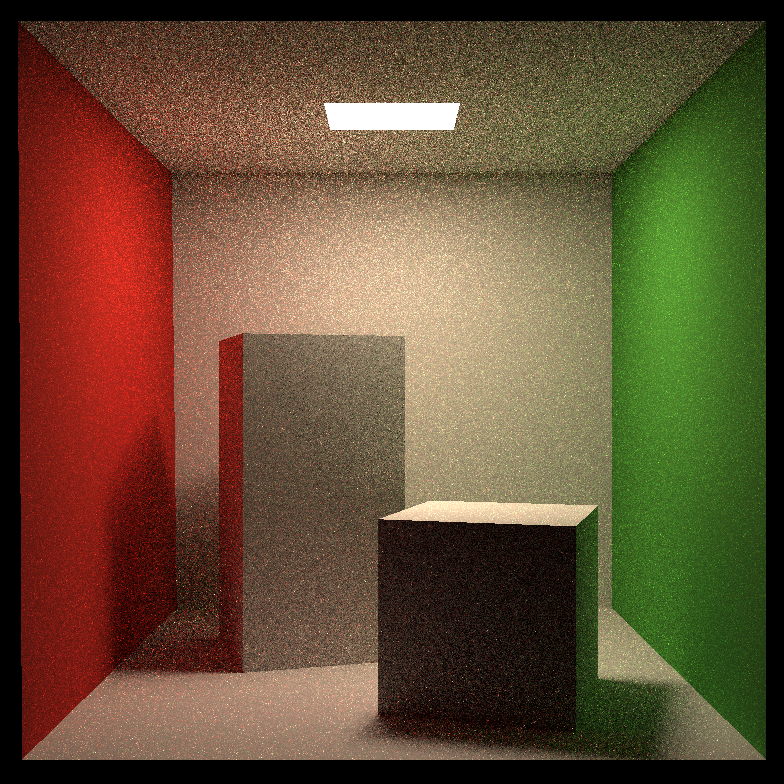
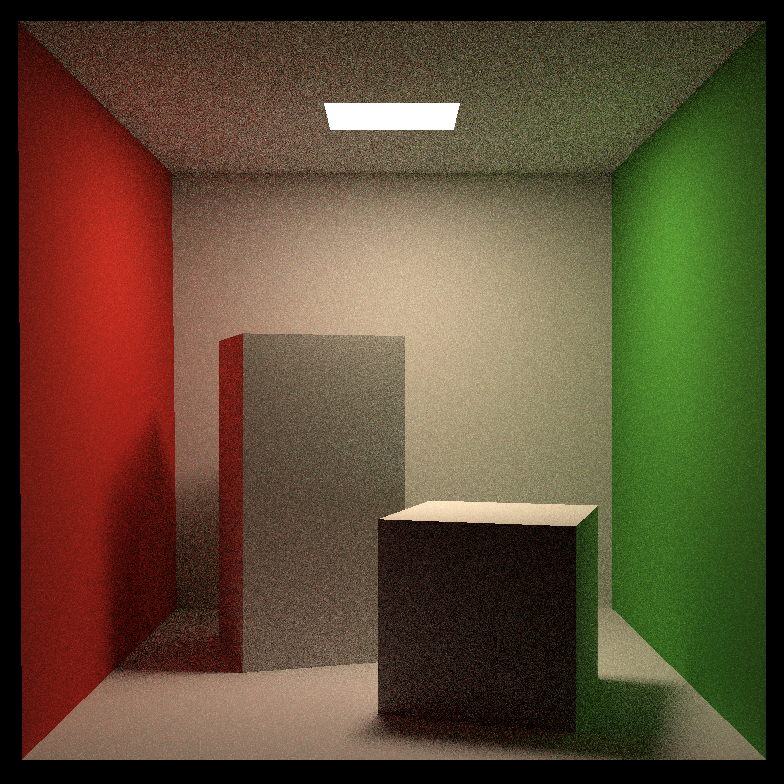
Bug fixes on Assignment 7

diff --git a/GAMES-101/Assignment7/Renderer.cpp b/GAMES-101/Assignment7/Renderer.cpp
@@ -14,6 +14,9 @@ thread_local std::random_device dev;
 thread_local std::mt19937 rng(dev());
 thread_local std::uniform_real_distribution<float> dist(0.f, 1.f); // distribution in range [0, 1]
 
+// The main render function. This where we iterate over all pixels in the image,
+// generate primary rays and cast these rays into the scene. The content of the
+// framebuffer is saved to a file.
 std::vector<Vector3f> Renderer::OnePass(const Scene &scene, int id, bool msaaEnabled)
 {
     std::vector<Vector3f> framebuffer(scene.width * scene.height);
@@ -71,9 +74,7 @@ std::vector<Vector3f> Renderer::OnePass(const Scene &scene, int id, bool msaaEna
     return framebuffer;
 }
 
-// The main render function. This where we iterate over all pixels in the image,
-// generate primary rays and cast these rays into the scene. The content of the
-// framebuffer is saved to a file.
+// Use multi-threading to render the scene. Repeatedly call OnePass() in parallel
 void Renderer::Render(const Scene &scene, bool useMultiThread, bool msaaEnabled)
 {
     int numThread = std::thread::hardware_concurrency();
@@ -214,14 +215,14 @@ void Renderer::updateThreadProgress(int slot, float progress)
                       { return coutAvail; });
     }
     coutAvail = false;
-    int threshold = std::max(1, cliHeight - 2);
+    int threshold = std::min(nSlot - currentMin, cliHeight - 2);
 
     if (currentMin == previousMin)
         resetCliScreen(threshold);
     else
         previousMin = currentMin;
 
-    for (int i = currentMin; i < std::min(currentMin + threshold, nSlot); ++i)
+    for (int i = currentMin; i < currentMin + threshold; ++i)
     {
         UpdateProgress(progresses[i]);
         std::cout << " - Pass [" << i << "] " << (progresses[i] >= 1.f ? "[Done]     " : "[Rendering]") << "\n";

diff --git a/GAMES-101/Assignment7/Scene.cpp b/GAMES-101/Assignment7/Scene.cpp
@@ -96,7 +96,7 @@ Vector3f Scene::castRay(const Ray &ray, int depth) const
         if (dotProduct(wLightOut, hitNormal) > EPSILON) // Must face the light
         {
             if (Intersection isect0 = intersect(lightOut);
-                isect0.happened && isect0.obj == lightPos.obj) // and has no blocking in between, or there is another light source
+                isect0.happened && isect0.obj == lightPos.obj) // and has no blocking in between
             {
                 Vector3f &lightNormal = isect0.normal;
                 Vector3f &lightEmit = isect0.emit;
@@ -106,9 +106,6 @@ Vector3f Scene::castRay(const Ray &ray, int depth) const
                 float ctheta = dotProduct(wLightOut, hitNormal);
                 float cthetap = dotProduct(Vector3f() - wLightOut, lightNormal);
                 hitColor += lightEmit * fr * (ctheta * cthetap / frac);
-                // hitColor += Vector3f{1.0} / frac;
-                // hitColor += Vector3f{0.5};
-                // fprintf(stderr, "frac0=%f, frac=%f\n", frac0, frac);
             }
         }
 
@@ -122,7 +119,7 @@ Vector3f Scene::castRay(const Ray &ray, int depth) const
                 isect0.happened && !isect0.m->hasEmission())
             {
                 float frac = pdfMaterial * RussianRoulette;
-                Vector3f shade = castRay(outRay, depth + 1).regularized();
+                Vector3f shade = castRay(outRay, depth + 1);
                 Vector3f f_r = hitMaterial->eval(wIn, wOut, hitNormal);
                 float ctheta = dotProduct(wOut, hitNormal);
                 hitColor +=  shade * f_r * ctheta / frac;
@@ -135,5 +132,5 @@ Vector3f Scene::castRay(const Ray &ray, int depth) const
         }
     }
 
-    return hitColor;
+    return hitColor.regularized();
 }

diff --git a/GAMES-101/Assignment7/main.cpp b/GAMES-101/Assignment7/main.cpp
@@ -14,9 +14,9 @@ int main(int argc, char **argv)
 {
 
     // Change the definition here to change resolution
-    Scene scene(784, 784); // DEFAULT
+    // Scene scene(784, 784); // DEFAULT
     // Scene scene(1024, 1024); // RELEASE
-    // Scene scene(50, 50); // DEBUG
+    Scene scene(512, 512); // DEBUG
 
     Material *red = new Material(DIFFUSE, Vector3f(0.0f));
     red->Kd = Vector3f(0.63f, 0.065f, 0.05f);
@@ -47,13 +47,14 @@ int main(int argc, char **argv)
 
     Renderer r;
     // r.setSPP(1);
+    // r.setSPP(4);
     r.setSPP(16);
     // r.setSPP(256);
     // r.setSPP(1024);
     r.setEyePos(Vector3f(278, 273, -800));
 
     auto start = std::chrono::system_clock::now();
-    r.Render(scene, true, true);
+    r.Render(scene, true, false);
     auto stop = std::chrono::system_clock::now();
 
     std::cout << "\nRendering complete. \n";

diff --git a/GAMES-101/Assignment7/Vector.hpp b/GAMES-101/Assignment7/Vector.hpp
@@ -30,6 +30,7 @@ public:
         float n = std::sqrt(x * x + y * y + z * z);
         return Vector3f(x / n, y / n, z / n);
     }
+    // Regularize the vector such that all components reside in [0, 1]
     inline Vector3f regularized()
     {
         return Vector3f(clamp(0.f, 1., x), clamp(0.f, 1., y), clamp(0.f, 1., z));

diff --git a/GAMES-101/Assignment7/readme.md b/GAMES-101/Assignment7/readme.md
@@ -46,10 +46,11 @@ From now on we assume optimized random FP generation is used.
 
 
 
-| Options        | Image                                                        |
-| -------------- | ------------------------------------------------------------ |
-| 784x784        | <img src="images/784x784_16.png" alt="img1" style="zoom:50%;" /> |
-| 784x784 MSAA4x | <img src="images/784x784_16_msaa4x.png" alt="img1" style="zoom:50%;" /> |
+| Options                   | Image                                                        |
+| ------------------------- | ------------------------------------------------------------ |
+| 784x784                   | <img src="images/784x784_16.png" alt="img1" style="zoom:50%;" /> |
+| 784x784 MSAA4x            | <img src="images/784x784_16_msaa4x.png" alt="img1" style="zoom:50%;" /> |
+| 784x784 SPP=1024, No MSAA | <img src="images/784x784_1024.png" alt="img1" style="zoom:50%;" /> |
 
 
 
@@ -76,8 +77,18 @@ From now on we assume optimized random FP generation is used.
 #### FP Precision
 
 - When intersecting with bounding boxes, consider the extreme cases (bounding box deteriorates into a single plane).
+  - *Phenomenon: Planes may disappear*
 - When intersecting with triangles, reverse the direction of surface normal if necessary.
-- When shooting rays from the surface of a material, add enough tolerance to make sure **the ray doesn't fall again on the surface itself.**
+  - *Phenomenon: Triangles may disappear*
+  - *Why: Triangles defined in the framework have one normal only*
+- When shooting rays from the surface of a material, add enough tolerance on intersection test.
+  - *Phenomenon: Surfaces may appear in total black or partial black*
+  - *Why: Rays may intersect with the differential plane its origin resides on*
+
+#### `castRay`
+
+- Truncate `hitColor` if it is too large.
+  - *Phenomenon: White noise*
 
 
 
